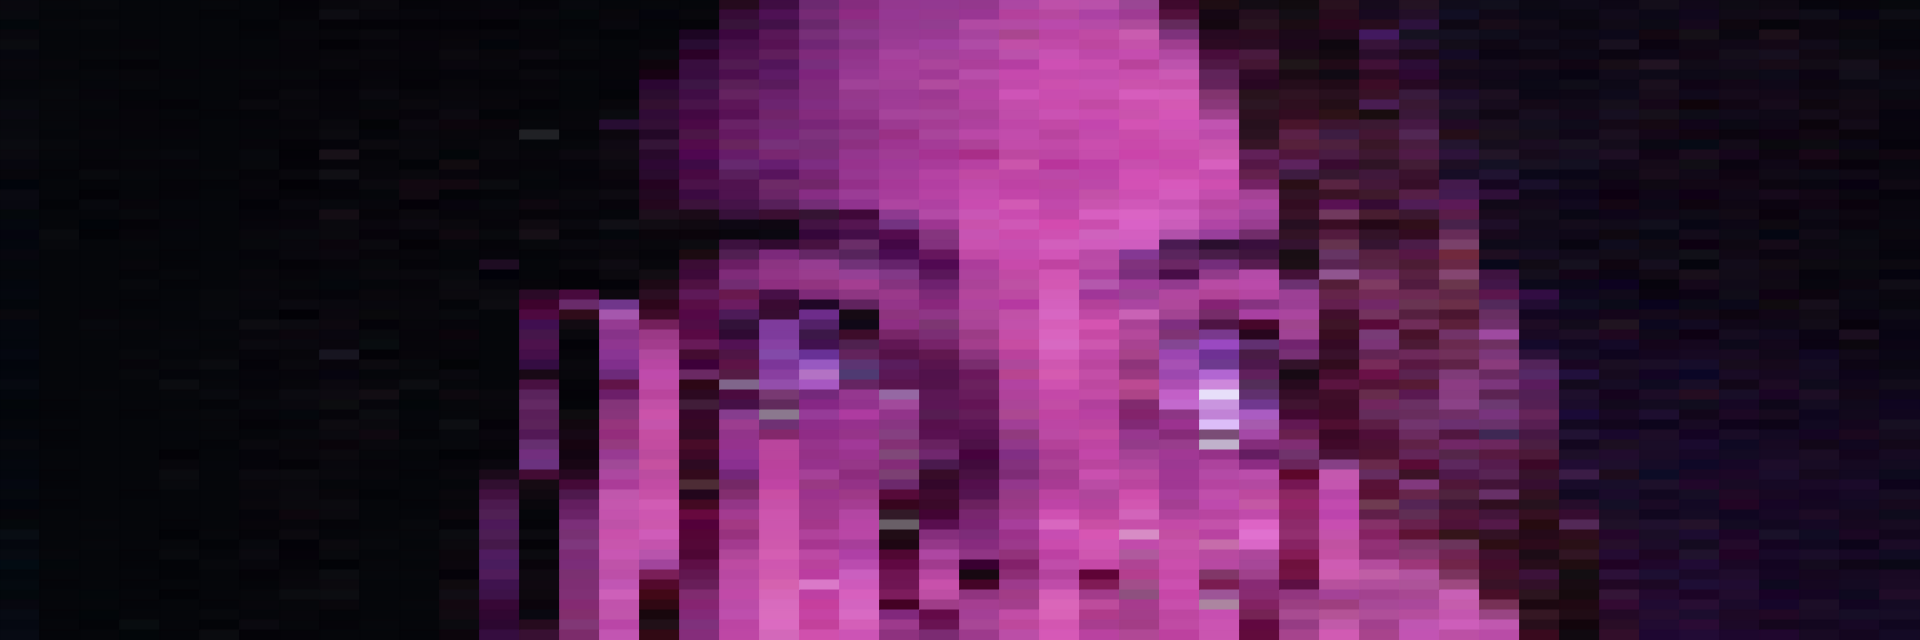
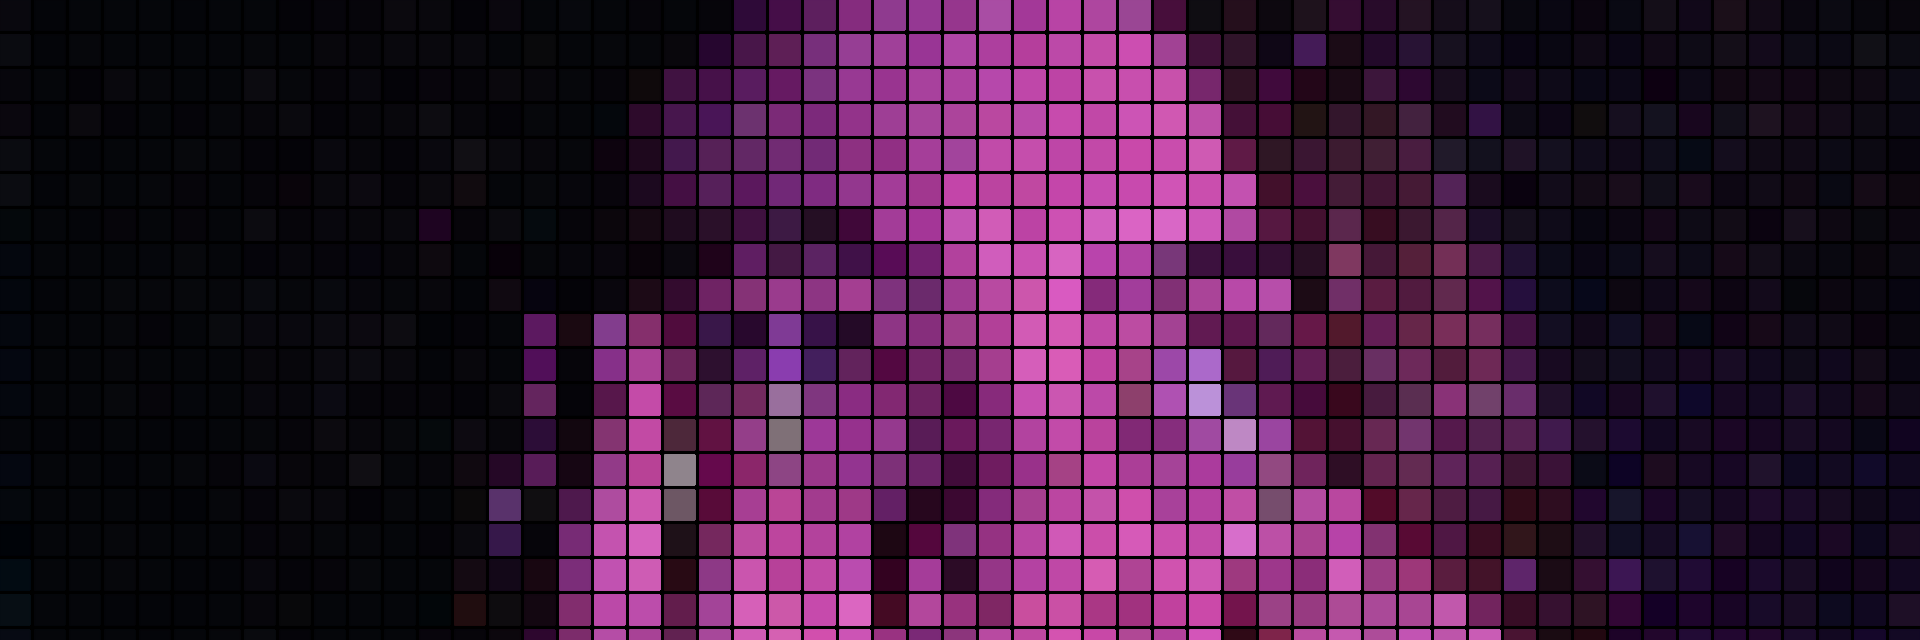
Grid step

diff --git a/sketch.js b/sketch.js
@@ -23,15 +23,18 @@ function setup() {
   maskImg.loadPixels();
 }
 
-const tileWidth = 40;
-const tileHeight = 10;
+const tileWidth = 30;
+const tileHeight = 30;
+
+const xStep = 35;
+const yStep = 35;
 
 
 function draw() {
 
 
-for(var x = 0; x < sourceImg.width; x = x + tileWidth){
-  for(var y = 0; y < sourceImg.height; y = y + tileHeight){
+for(var x = 0; x < sourceImg.width; x = x + xStep){
+  for(var y = 0; y < sourceImg.height; y = y + yStep){
     let pix = sourceImg.get(x, y);
     let mask = maskImg.get(x, y);
     fill(pix);

diff --git a/README.md b/README.md
@@ -1,5 +1,5 @@
 ## Creative Coding 2: Custom Pixel
 
-Working through the in-class tutorials. Created a grid with the pixels.
+Working through the in-class tutorials. Finished off today's tutorial working on the x and y step grid. I think so far this is my favourite effect as I feel it looks super pixelated and makes the viewer be unaware of what the real image is.
 
 The images above are photos of my friend from an assignment from last year in the studio algorithmically processed with a lightly modified version of the [p5.js Pointillism example](https://p5js.org/examples/image-pointillism.html). The masks for each photo highlight various objects.
